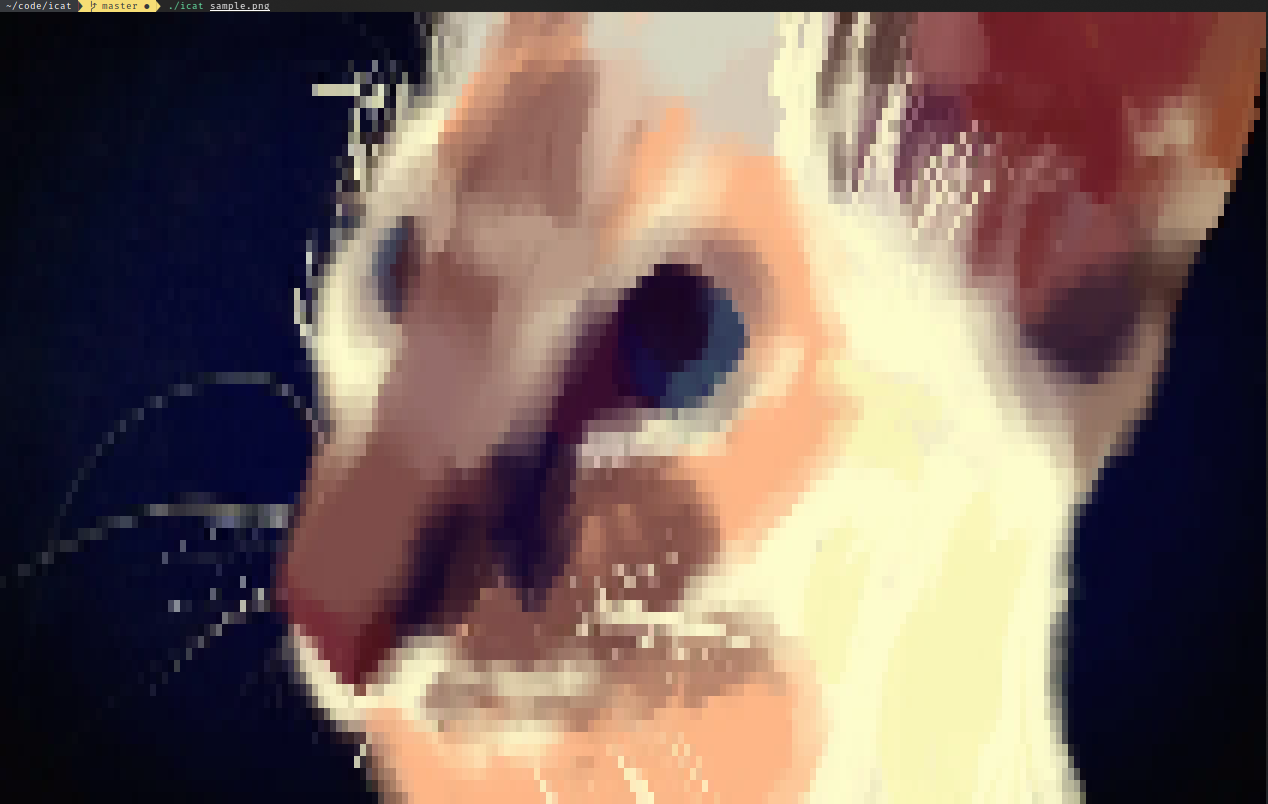
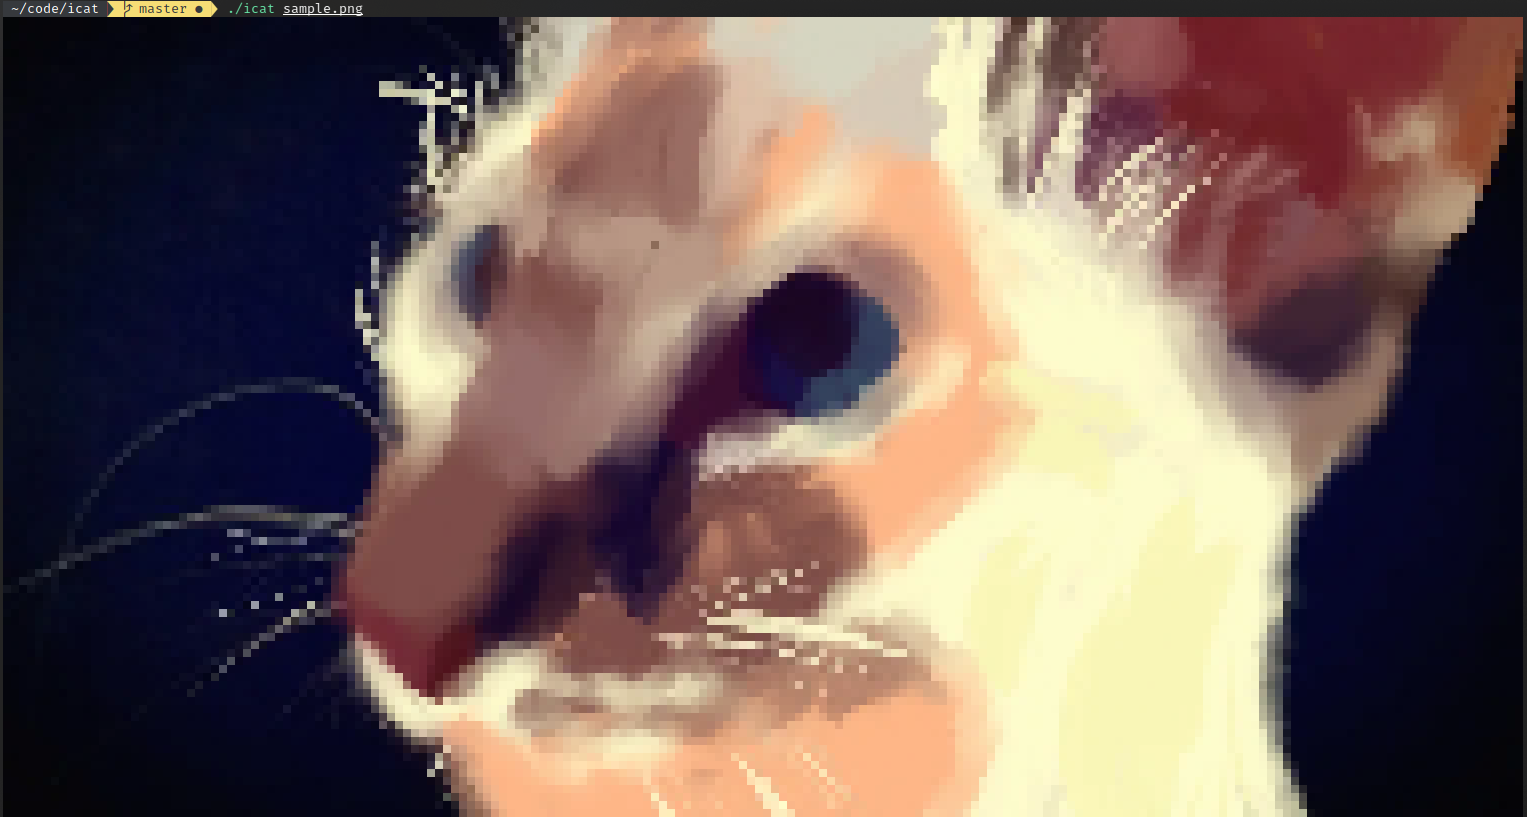
Сделал пикселт квадритными

diff --git a/README.md b/README.md
@@ -3,6 +3,6 @@
 Display an image in terminal
 
 ```
-icat sample.png -r=20
+icat sample.png
 ```
 ![](sample-out.png)
